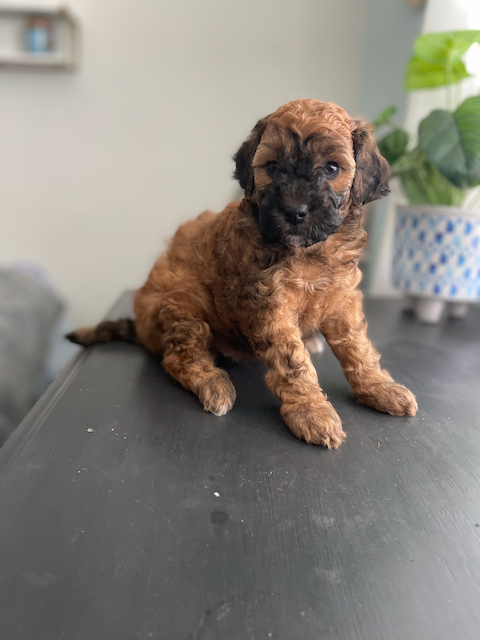
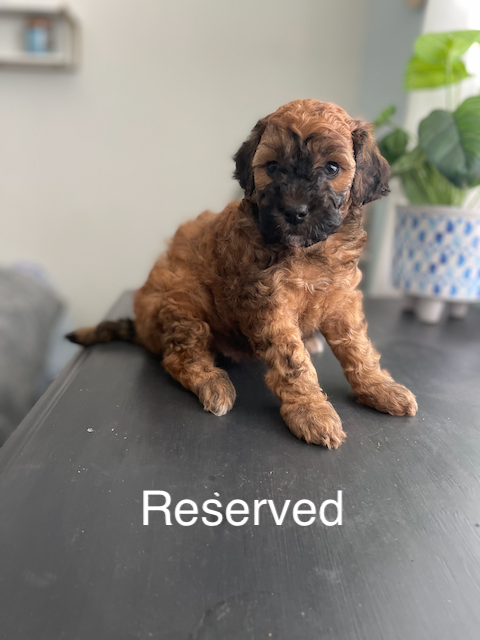
Update prancer to be reserved

Changed region(s): [[0.2812, 0.75, 0.7188, 0.8438]]

diff --git a/index.html b/index.html
@@ -174,14 +174,10 @@
                   </div>
                   <div class="col">
                     <div class="card h-100" id="prancer">
-                      <a href="prancer.html">
                         <img src="puppies/prancer-new.png" class="card-img-top" alt="Prancer">
-                      </a>
                       <div class="card-body">
                         <h1 class="card-title text-center">
-                        <a href="prancer.html">
                             Prancer (female)</h1>
-                        </a>
                       </div>
                     </div>
                   </div>
